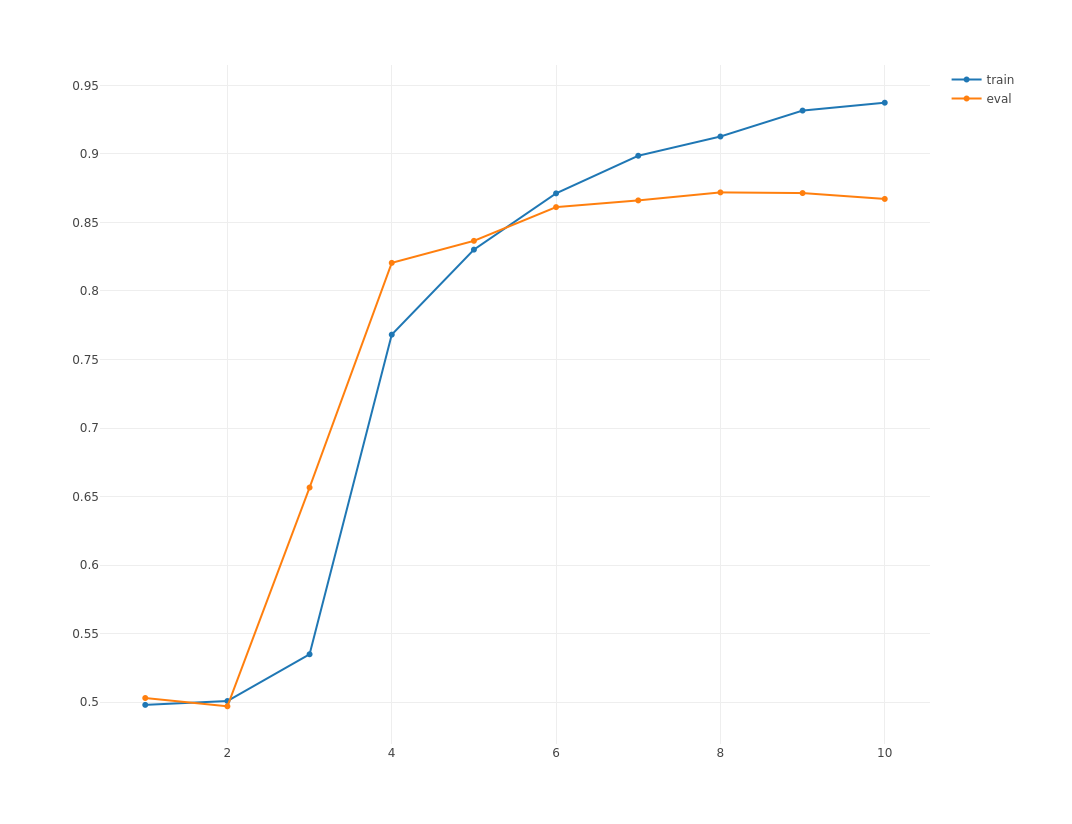
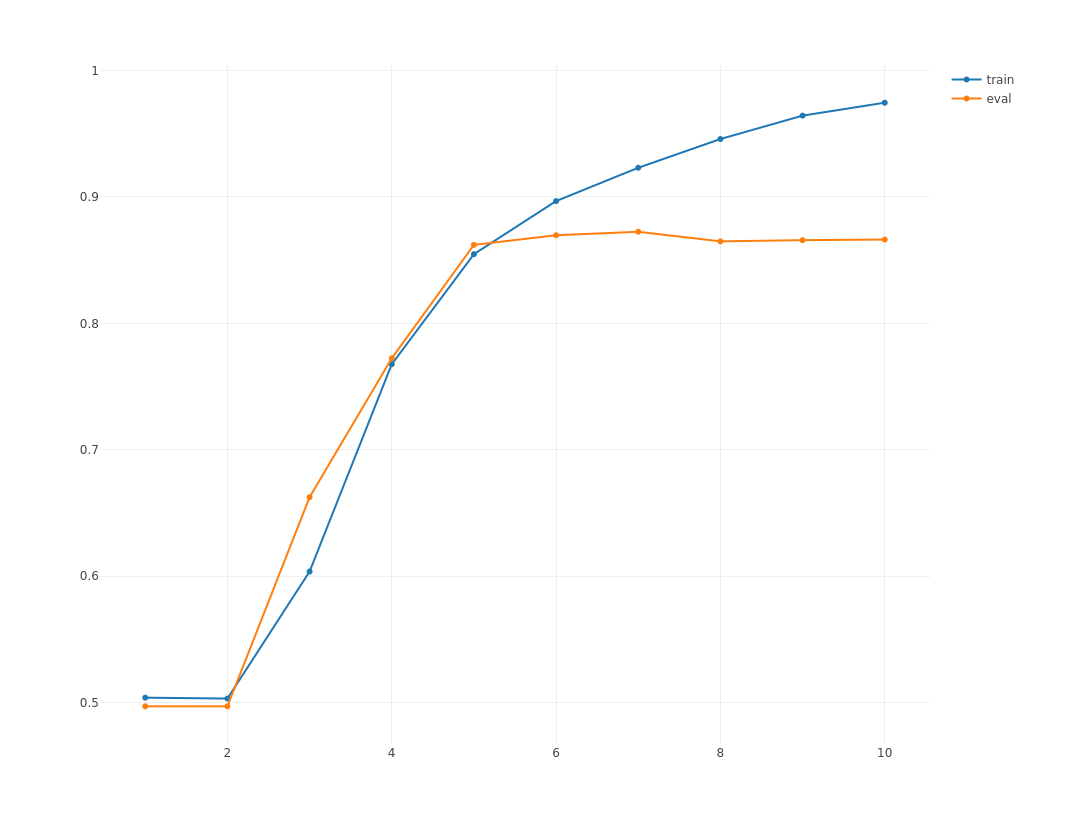
Update with sym_list removal

diff --git a/README.md b/README.md
@@ -23,8 +23,7 @@ Load utility functions
 ``` r
 source("mx.io.bucket.iter.R")
 source("rnn.graph.R")
-source("rnn.R")
-source("rnn.train.R")
+source("model.rnn.R")
 source("rnn.infer.R")
 ```
 
@@ -39,26 +38,7 @@ To efficiently feed the RNN network, two tricks can be used:
 
 -   Padding: fill the modeled sequences with an arbitrary word/character up to the longest sequence. This results in sequences of even lengths, but potentially of excessive size for an efficient training.
 
--   Bucketing: apply the padding trick but to subgroups of samples split according to their lengths. This results in multiples trainings sets, or buckets, within which all samples are padded to an even length.
-
-Below is the graph representation of a seq-to-one architecture. Note that input data is of shape `seq_length X batch.size` while ouput of the RNN operator is of shape `hidden.features X batch.size X seq_length`.
-
-``` r
-rnn_graph_seq_one <- rnn.graph(num.rnn.layer = 2, 
-                               num.hidden = 20,
-                               input.size=100,
-                               num.embed=16, 
-                               num.label=2,
-                               dropout=0.5, 
-                               ignore_label = 0,
-                               cell.type="lstm",
-                               masking = T,
-                               config = "seq-to-one")
-
-graph.viz(rnn_graph_seq_one, type = "graph", direction = "LR", graph.height.px = 200, graph.width.px = 800, shape=c(5, 64))
-```
-
-![](RNN_revamp_blog_files/figure-markdown_github-ascii_identifiers/unnamed-chunk-3-1.png)
+-   Bucketing: apply the padding trick but to subgroups of samples split according to their lengths. This results in multiples training sets, or buckets, within which all samples are padded to an even length.
 
 Data preparation
 ----------------
@@ -73,54 +53,77 @@ The following steps are executed:
 -   Aggregate the buckets of samples and labels into a list
 
 ``` r
-corpus_bucketed_train <- readRDS(file = "../data/corpus_bucketed_train.rds")
-corpus_bucketed_test <- readRDS(file = "../data/corpus_bucketed_test.rds")
+corpus_bucketed_train <- readRDS(file = "data/corpus_bucketed_train.rds")
+corpus_bucketed_test <- readRDS(file = "data/corpus_bucketed_test.rds")
 
 vocab <- length(corpus_bucketed_test$dic)
 
 ### Create iterators
 batch.size = 64
 
-train.data <- mx.io.bucket.iter(buckets = corpus_bucketed_train$buckets, batch.size = batch.size, data.mask.element = 0, shuffle = TRUE)
+train.data <- mx.io.bucket.iter(buckets = corpus_bucketed_train$buckets, batch.size = batch.size, 
+                                data.mask.element = 0, shuffle = TRUE)
 
-eval.data <- mx.io.bucket.iter(buckets = corpus_bucketed_test$buckets, batch.size = batch.size, data.mask.element = 0, shuffle = FALSE)
+eval.data <- mx.io.bucket.iter(buckets = corpus_bucketed_test$buckets, batch.size = batch.size, 
+                               data.mask.element = 0, shuffle = FALSE)
 ```
 
-Fit a LSTM model
-----------------
+LSTM model
+----------
+
+### Define the architecture
+
+Below is the graph representation of a seq-to-one architecture with LSTM cells. Note that input data is of shape `seq_length X batch.size` while the output of the RNN operator is of shape `hidden.features X batch.size X seq_length`.
+
+``` r
+graph_lstm <- rnn.graph(config = "seq-to-one",
+                        cell.type = "lstm", 
+                        num.rnn.layer = 1, 
+                        num.embed = 2, 
+                        num.hidden = 4, 
+                        num.label = 2, 
+                        input.size = vocab, 
+                        dropout = 0.5,
+                        ignore_label = 0,
+                        masking = T)
+
+graph.viz(graph_lstm, type = "graph", direction = "LR", 
+          graph.height.px = 50, graph.width.px = 800, shape=c(5, 64))
+```
+
+![](README_files/figure-markdown_github-ascii_identifiers/unnamed-chunk-4-1.png)
+
+Fit the model
+-------------
 
 ``` r
 devices <- mx.gpu(0)
 
-initializer <- mx.init.Xavier(rnd_type = "gaussian", factor_type = "avg", magnitude = 2.5)
+initializer <- mx.init.Xavier(rnd_type = "gaussian", factor_type = "avg", magnitude = 2)
 
-optimizer <- mx.opt.create("rmsprop", learning.rate = 0.001, gamma1 = 0.95, gamma2 = 0.9, wd = 1e-4, clip_gradient=NULL, rescale.grad=1/batch.size)
+optimizer <- mx.opt.create("rmsprop", learning.rate = 0.001, gamma1 = 0.95, gamma2 = 0.95, wd = 5e-4, 
+                           clip_gradient=NULL, rescale.grad=1/batch.size)
 
 logger <- mx.metric.logger()
 epoch.end.callback <- mx.callback.log.train.metric(period = 1, logger = logger)
 batch.end.callback <- mx.callback.log.train.metric(period = 50)
 
-model <- mx.rnn.buckets(train.data = train.data, eval.data = eval.data,
+model <- mx.rnn.buckets(symbol = graph_lstm,
+                        train.data = train.data, 
+                        eval.data = eval.data,
                         num.round = 10, 
                         ctx = devices, 
                         metric = mx.metric.accuracy, 
                         initializer = initializer, 
                         optimizer = optimizer, 
-                        num.rnn.layer = 1, 
-                        num.embed = 2, 
-                        num.hidden = 5, 
-                        num.label = 2, 
-                        input.size = vocab, 
-                        dropout = 0.25,
-                        cell.type = "lstm", 
-                        config = "seq-to-one", 
-                        batch.end.callback = NULL, 
+                        batch.end.callback = batch.end.callback, 
                         epoch.end.callback = epoch.end.callback,
-                        verbose = FALSE)
+                        verbose = TRUE)
 
-mx.model.save(model, prefix = "../models/model_sentiment_lstm", iteration = 10)
+mx.model.save(model, prefix = "models/model_sentiment_lstm", iteration = 10)
 
-p <- plot_ly(x = seq_len(length(logger$train)), y = logger$train, type = "scatter", mode = "markers+lines", name = "train") %>% 
+p <- plot_ly(x = seq_len(length(logger$train)), y = logger$train, 
+             type = "scatter", mode = "markers+lines", name = "train") %>% 
   add_trace(y = logger$eval, type = "scatter", mode = "markers+lines", name = "eval")
 
 plotly::export(p, file = "logger_lstm.png")
@@ -128,35 +131,47 @@ plotly::export(p, file = "logger_lstm.png")
 
 ![](logger_lstm.png)
 
-Fit a GRU model
----------------
+GRU model
+---------
+
+### Define the architecture
+
+``` r
+graph_gru <- rnn.graph(config = "seq-to-one",
+                        cell.type = "gru", 
+                        num.rnn.layer = 1, 
+                        num.embed = 2, 
+                        num.hidden = 4, 
+                        num.label = 2, 
+                        input.size = vocab, 
+                        dropout = 0.5,
+                        ignore_label = 0,
+                        masking = T)
+```
+
+### Fit the model
 
 ``` r
 logger <- mx.metric.logger()
 epoch.end.callback <- mx.callback.log.train.metric(period = 1, logger = logger)
 batch.end.callback <- mx.callback.log.train.metric(period = 50)
 
-model <- mx.rnn.buckets(train.data = train.data, eval.data = eval.data,
+model <- mx.rnn.buckets(symbol = graph_gru,
+                        train.data = train.data, 
+                        eval.data = eval.data,
                         num.round = 10, 
                         ctx = devices, 
                         metric = mx.metric.accuracy, 
                         initializer = initializer, 
                         optimizer = optimizer, 
-                        num.rnn.layer = 1, 
-                        num.embed = 2, 
-                        num.hidden = 5, 
-                        num.label = 2, 
-                        input.size = vocab, 
-                        dropout = 0.25,
-                        cell.type = "gru", 
-                        config = "seq-to-one", 
-                        batch.end.callback = NULL, 
+                        batch.end.callback = batch.end.callback, 
                         epoch.end.callback = epoch.end.callback,
-                        verbose = FALSE)
+                        verbose = TRUE)
 
-mx.model.save(model, prefix = "../models/model_sentiment_gru", iteration = 10)
+mx.model.save(model, prefix = "models/model_sentiment_gru", iteration = 10)
 
-p <- plot_ly(x = seq_len(length(logger$train)), y = logger$train, type = "scatter", mode = "markers+lines", name = "train") %>% 
+p <- plot_ly(x = seq_len(length(logger$train)), y = logger$train, 
+             type = "scatter", mode = "markers+lines", name = "train") %>% 
   add_trace(y = logger$eval, type = "scatter", mode = "markers+lines", name = "eval")
 
 plotly::export(p, file = "logger_gru.png")
@@ -167,9 +182,9 @@ plotly::export(p, file = "logger_gru.png")
 Plot word embeddings
 --------------------
 
-Word representation can be visualised by looking at the assigned weights in any of the embedding dimensions. Here, we look simultaneously at the two embeddings learnt in the GRU model.
+Word representation can be visualized by looking at the assigned weights in any of the embedding dimensions. Here, we look simultaneously at the two embeddings learnt in the GRU model.
 
-![](RNN_revamp_blog_files/figure-markdown_github-ascii_identifiers/unnamed-chunk-7-1.png)
+![](README_files/figure-markdown_github-ascii_identifiers/unnamed-chunk-8-1.png)
 
 Inference on test data
 ----------------------
@@ -178,16 +193,17 @@ Inference on test data
 ctx <- mx.gpu(0)
 batch.size <- 64
 
-corpus_bucketed_test <- readRDS(file = "../data/corpus_bucketed_test.rds")
+corpus_bucketed_test <- readRDS(file = "data/corpus_bucketed_test.rds")
 
-test.data <- mx.io.bucket.iter(buckets = corpus_bucketed_test$buckets, batch.size = batch.size, data.mask.element = 0, shuffle = FALSE)
+test.data <- mx.io.bucket.iter(buckets = corpus_bucketed_test$buckets, batch.size = batch.size, 
+                               data.mask.element = 0, shuffle = FALSE)
 ```
 
 ### LSTM
 
 ``` r
-model <- mx.model.load(prefix = "../models/model_sentiment_lstm", iteration = 10)
-infer <- mx.rnn.infer.buckets(infer_iter = test.data, 
+model <- mx.model.load(prefix = "models/model_sentiment_lstm", iteration = 10)
+infer <- mx.rnn.infer.buckets(infer.data = test.data, 
                               model = model,
                               ctx = ctx)
 
@@ -200,14 +216,15 @@ roc <- roc(predictions = pred_raw[, 2], labels = factor(label))
 auc <- auc(roc)
 ```
 
-Accuracy: 86.7%
-AUC: 0.9415
+Accuracy: 86.6%
+
+AUC: 0.9327
 
 ### GRU
 
 ``` r
-model <- mx.model.load(prefix = "../models/model_sentiment_gru", iteration = 10)
-infer <- mx.rnn.infer.buckets(infer_iter = test.data, 
+model <- mx.model.load(prefix = "models/model_sentiment_gru", iteration = 10)
+infer <- mx.rnn.infer.buckets(infer.data = test.data, 
                               model = model,
                               ctx = ctx)
 
@@ -220,5 +237,6 @@ roc <- roc(predictions = pred_raw[, 2], labels = factor(label))
 auc <- auc(roc)
 ```
 
-Accuracy: 87.1%
-AUC: 0.9422
+Accuracy: 87%
+
+AUC: 0.9393
